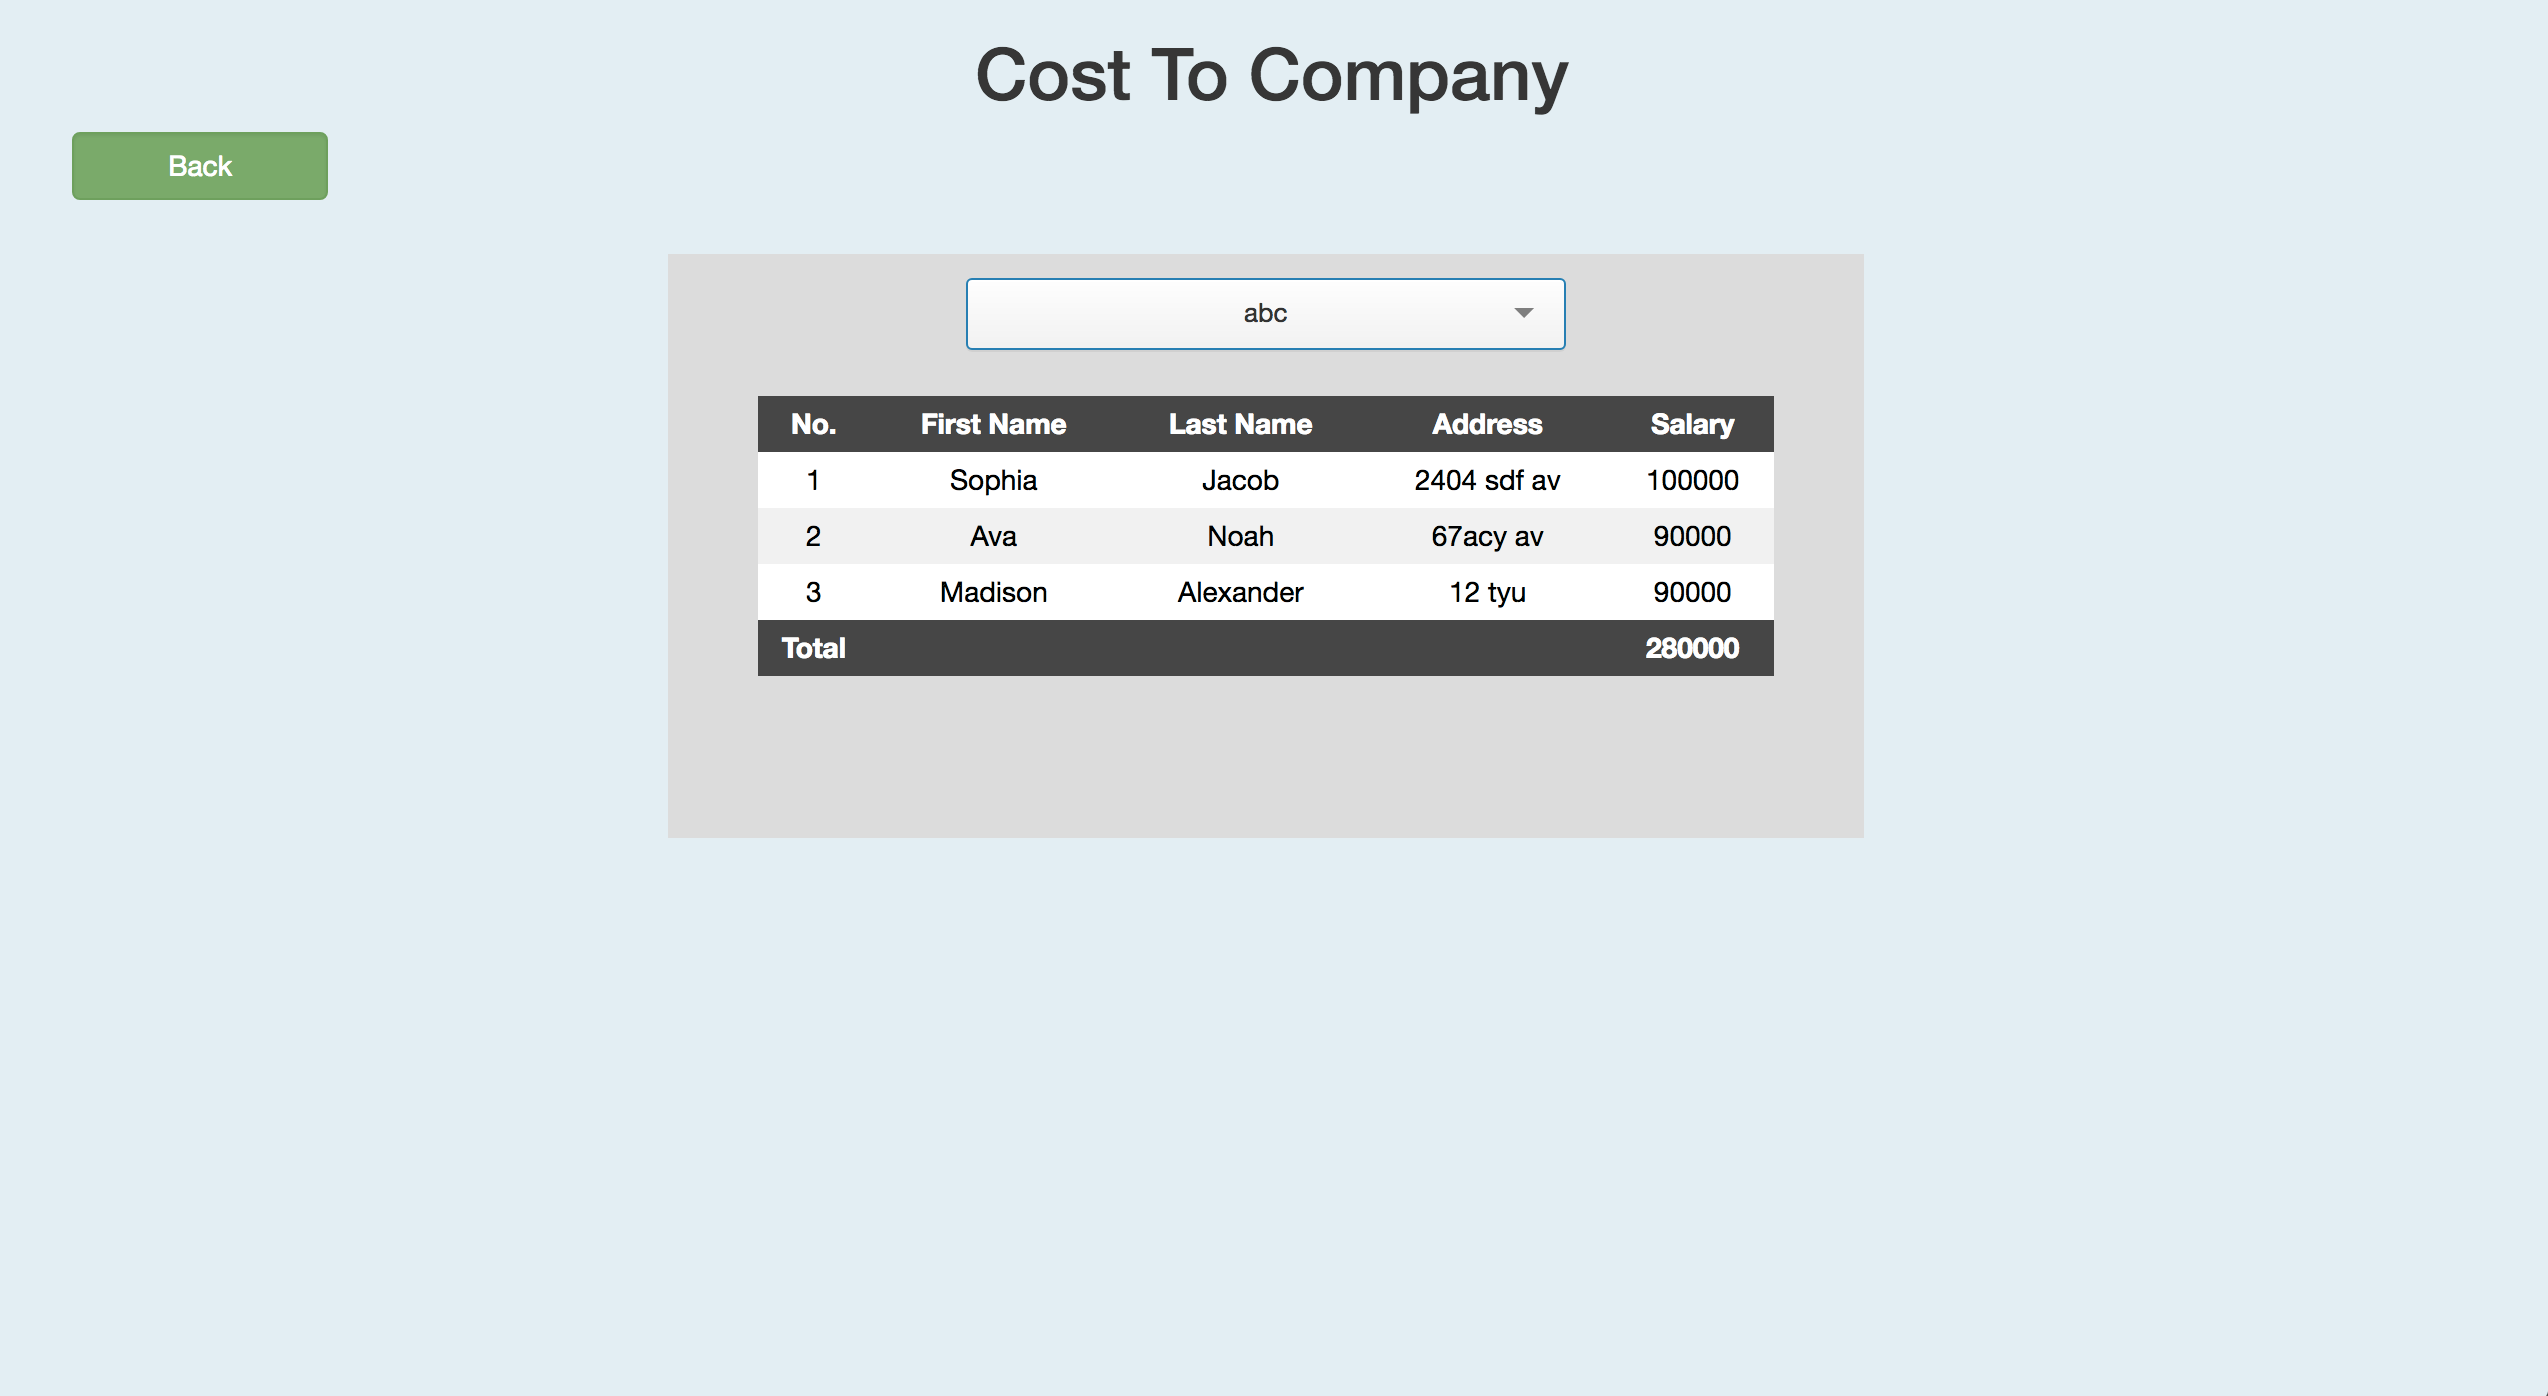
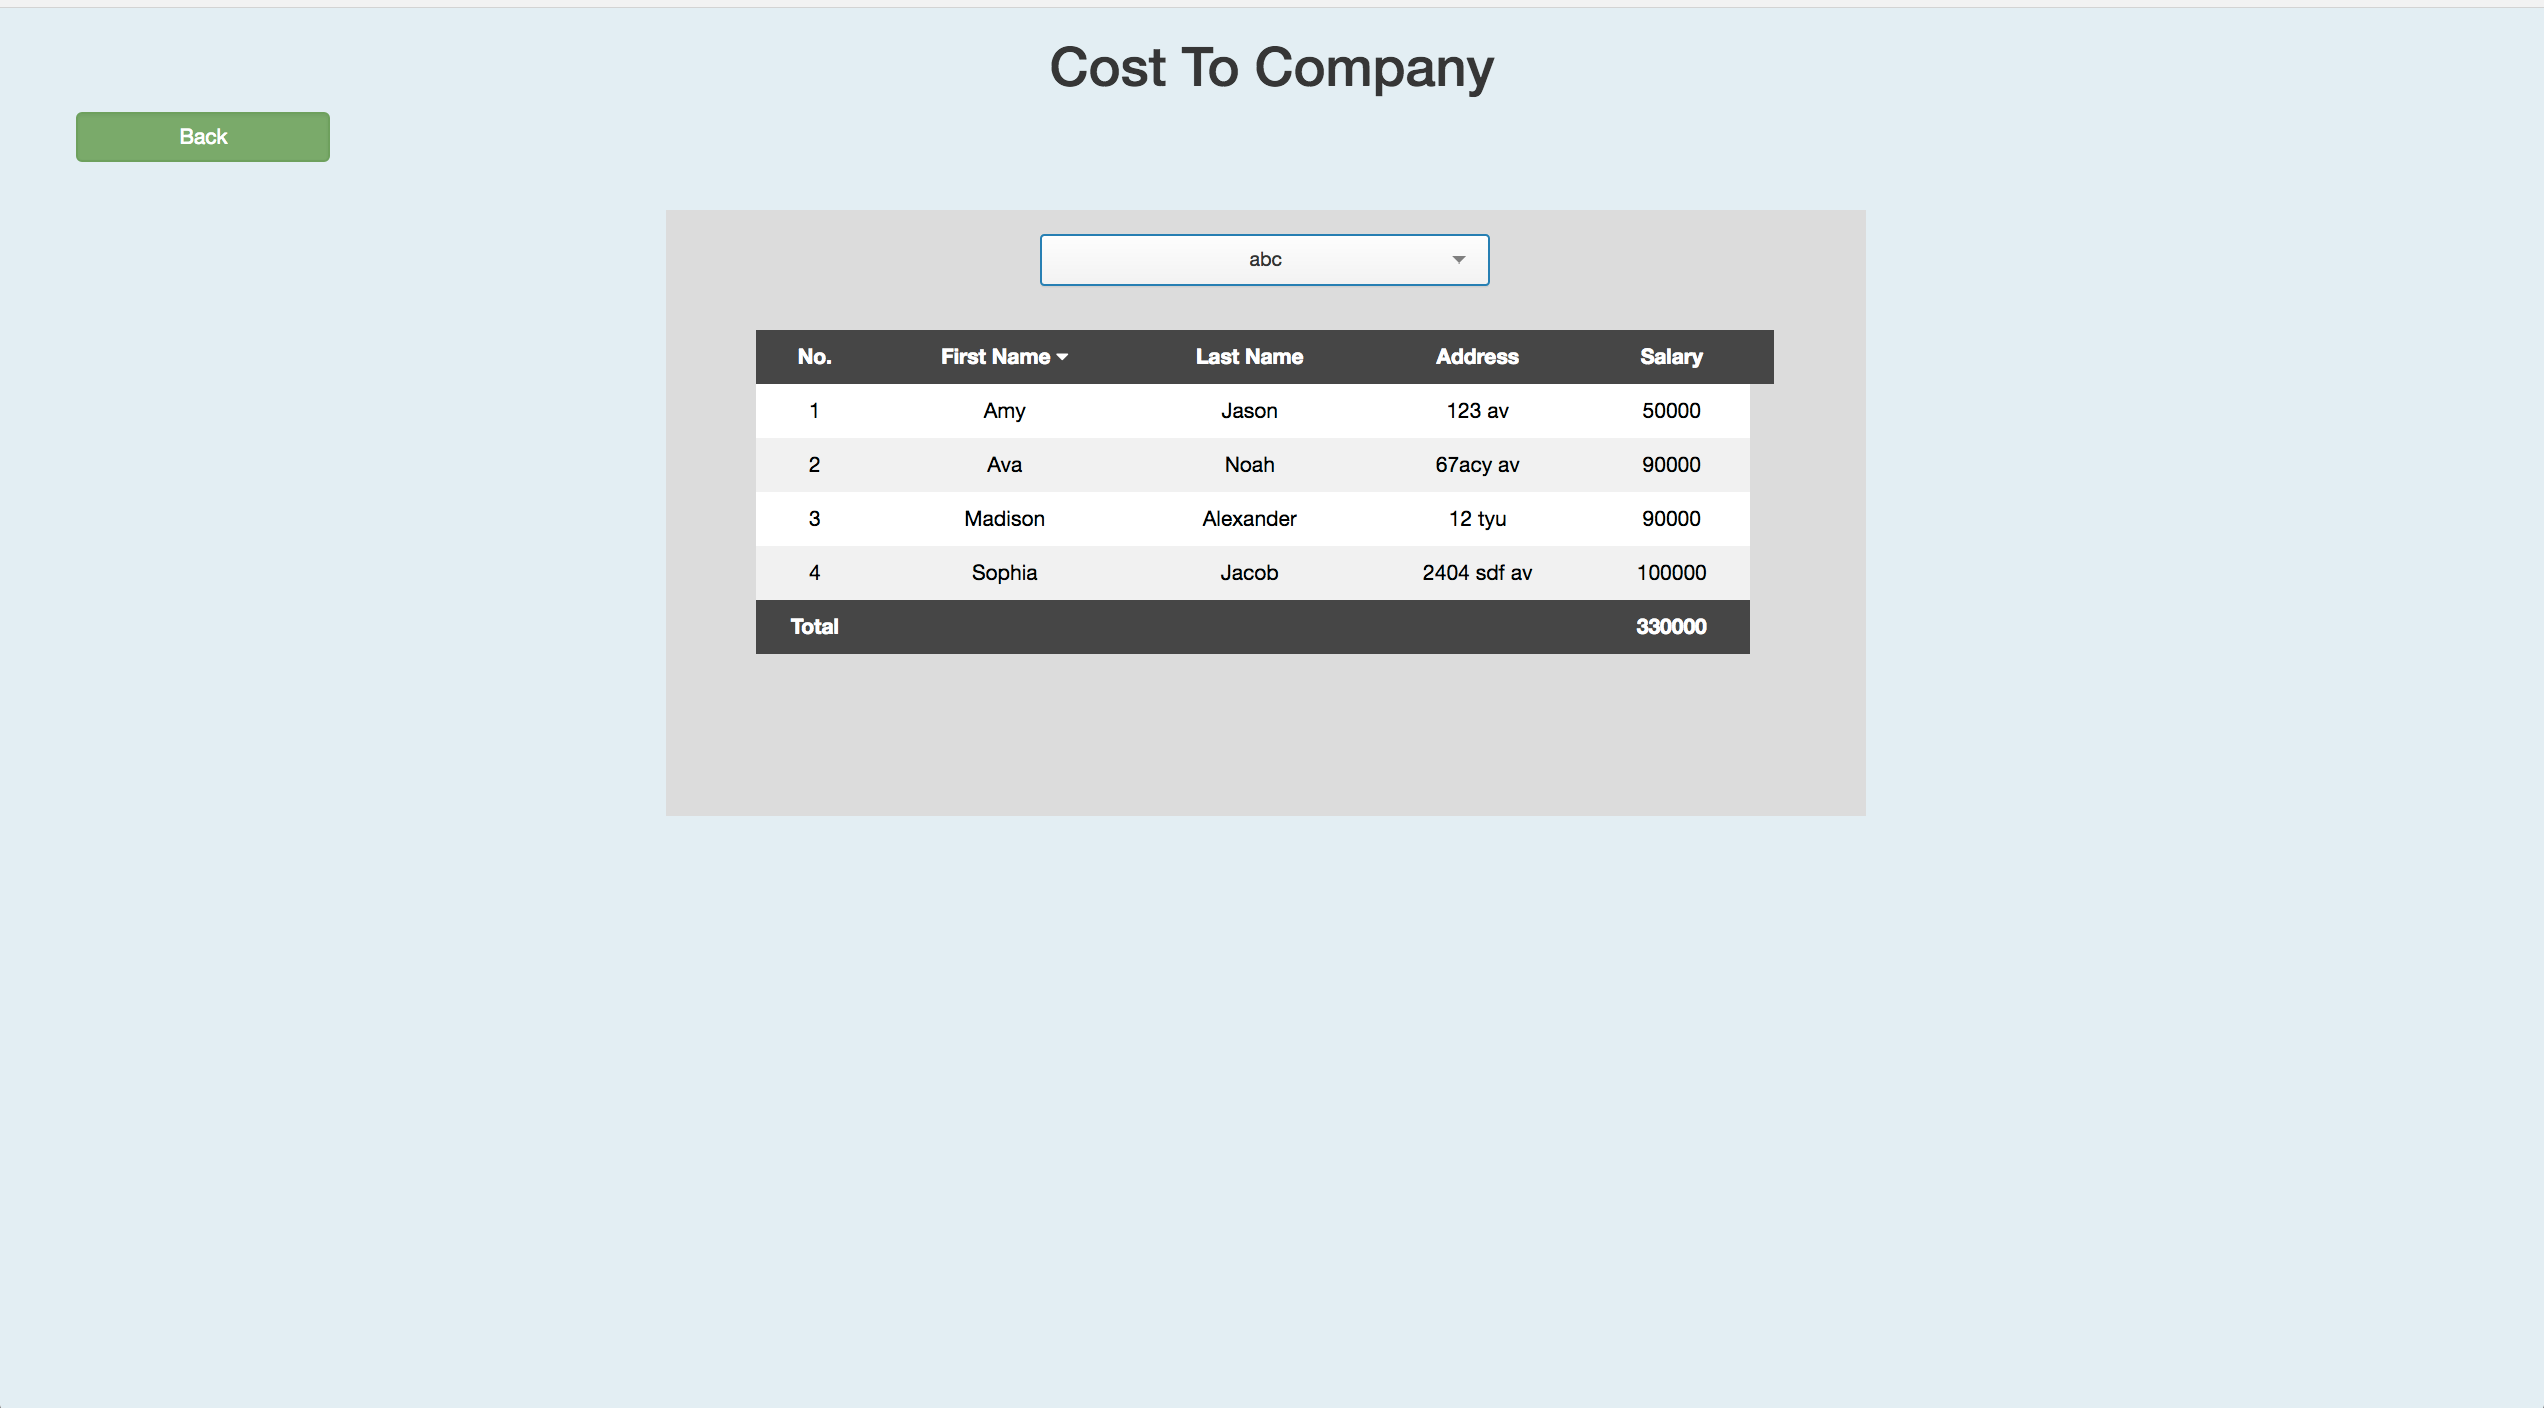
added support for sorting tables

Changed region(s): [[0.2795, 0.154, 0.7142, 0.4928], [0.3726, 0.0308, 0.6211, 0.0924], [0.0311, 0.0616, 0.1242, 0.154]]

diff --git a/main.html b/main.html
@@ -38,15 +38,50 @@
     	<div class="title-text"> <h1> Company Database </h1> </div>
 		<table style="width:85%; margin: 0 auto;">
 			<tr>
-				<th> No. </th>
-				<th> First Name </th>
-				<th> Last Name </th>
-				<th> Address </th>
-				<th> Company </th>
-				<th> Salary </th>
+				<th> 
+				    No.
+			       	    <span ng-show="sortType == 'id' && !sortReverse" class="fa fa-caret-down"></span>
+				    <span ng-show="sortType == 'id' && sortReverse" class="fa fa-caret-up"></span>
+				</th>
+				<th> 
+				    <a href ng-click="sortType = 'FirstName'; sortReverse = !sortReverse">
+				    First Name 
+			       	    <span ng-show="sortType == 'FirstName' && !sortReverse" class="fa fa-caret-down"></span>
+				    <span ng-show="sortType == 'FirstName' && sortReverse" class="fa fa-caret-up"></span>
+				    </a>
+				</th>
+				</a>
+				<th> 
+				    <a href ng-click="sortType = 'LastName'; sortReverse = !sortReverse">
+				    Last Name 
+				    <span ng-show="sortType == 'LastName' && !sortReverse" class="fa fa-caret-down"></span>
+				    <span ng-show="sortType == 'LastName' && sortReverse" class="fa fa-caret-up"></span>
+				    </a>
+				</th>
+				<th> 
+				    <a href ng-click="sortType = 'Address'; sortReverse = !sortReverse">
+				    Address 
+				    <span ng-show="sortType == 'Address' && !sortReverse" class="fa fa-caret-down"></span>
+				    <span ng-show="sortType == 'Address' && sortReverse" class="fa fa-caret-up"></span>
+				    </a>
+				</th>
+				<th> 
+				    <a href ng-click="sortType = 'Company'; sortReverse = !sortReverse">
+				    Company 
+				    <span ng-show="sortType == 'Company' && !sortReverse" class="fa fa-caret-down"></span>
+				    <span ng-show="sortType == 'Company' && sortReverse" class="fa fa-caret-up"></span>
+				    </a>
+				</th>
+				<th> 
+				    <a href ng-click="sortType = 'Salary'; sortReverse = !sortReverse">
+				    Salary 
+				    <span ng-show="sortType == 'Salary' && !sortReverse" class="fa fa-caret-down"></span>
+				    <span ng-show="sortType == 'Salary' && sortReverse" class="fa fa-caret-up"></span>
+				    </a>
+				</th>
 				<th>  </th>
 			</tr>
-  			<tr ng-repeat="x in Person">
+  			<tr ng-repeat="x in Person | orderBy:sortType:sortReverse">
     			<td>{{ $index+1 }}</td>
     			<td>{{ x.FirstName }}</td>
     			<td>{{ x.LastName }}</td>

diff --git a/detail.html b/detail.html
@@ -18,13 +18,36 @@
 		<table style="width:85%; margin: 3% auto;" ng-show="c.selected">
 			<tr>
 				<th> No. </th>
-				<th> First Name </th>
-				<th> Last Name </th>
-				<th> Address </th>
-				<th> Salary </th>
+				<th> 
+				    <a href ng-click="sortType = 'FirstName'; sortReverse = !sortReverse">
+				    First Name
+				    <span ng-show="sortType == 'FirstName' && !sortReverse" class="fa fa-caret-down"></span>
+				    <span ng-show="sortType == 'FirstName' && sortReverse" class="fa fa-caret-up"></span>
+				    </a>
+				</th>
+				<th> 
+				    <a href ng-click="sortType = 'LastName'; sortReverse = !sortReverse">
+				    Last Name
+				    <span ng-show="sortType == 'LastName' && !sortReverse" class="fa fa-caret-down"></span>
+				    <span ng-show="sortType == 'LastName' && sortReverse" class="fa fa-caret-up"></span>
+				    </a>
+				</th>
+				<th> 
+				    <a href ng-click="sortType = 'Address'; sortReverse = !sortReverse">
+				    Address
+				    <span ng-show="sortType == 'Address' && !sortReverse" class="fa fa-caret-down"></span>
+				    <span ng-show="sortType == 'Address' && sortReverse" class="fa fa-caret-up"></span>
+				    </a>
+				</th>
+				<th> 
+				    <a href ng-click="sortType = 'Salary'; sortReverse = !sortReverse">
+				    Salary
+				    <span ng-show="sortType == 'Salary' && !sortReverse" class="fa fa-caret-down"></span>
+				    <span ng-show="sortType == 'Salary' && sortReverse" class="fa fa-caret-up"></span>
+				    </a>
 				<th>  </th>
 			</tr>
-  			<tr ng-repeat="x in Person | filter:{Company:c.selected['Company']}:true">
+  			<tr ng-repeat="x in Person | orderBy:sortType:sortReverse | filter:{Company:c.selected['Company']}:true">
     			<td>{{ $index+1 }}</td>
     			<td>{{ x.FirstName }}</td>
     			<td>{{ x.LastName }}</td>

diff --git a/index.html b/index.html
@@ -6,7 +6,6 @@
         <!--[if lt IE 9]>
             <script src="https://cdnjs.cloudflare.com/ajax/libs/html5shiv/3.7.3/html5shiv.js"></script>
         <![endif]-->
-        <link rel="stylesheet" type="text/css" href="css/style.css" />
         <script src="//ajax.googleapis.com/ajax/libs/angularjs/1.5.1/angular.js"></script>
         <script src="//ajax.googleapis.com/ajax/libs/angularjs/1.5.1/angular-route.js"></script>
         <script src="js/select.js"></script>
@@ -20,6 +19,8 @@
         <script src="//angular-ui.github.io/bootstrap/ui-bootstrap-tpls-0.12.0.js"></script>
         <script src="js/main.js"></script>
         <link href="//netdna.bootstrapcdn.com/bootstrap/3.1.1/css/bootstrap.min.css" rel="stylesheet">
+	<link href="https://maxcdn.bootstrapcdn.com/font-awesome/4.7.0/css/font-awesome.min.css" rel="stylesheet">
+        <link rel="stylesheet" type="text/css" href="css/style.css" />
 
         <!-- theme  -->
         <link rel="stylesheet" href="https://cdnjs.cloudflare.com/ajax/libs/select2/3.4.5/select2.css">	

diff --git a/js/main.js b/js/main.js
@@ -48,6 +48,8 @@ var app = angular.module('ibm', ['ngSanitize', 'ui.bootstrap', 'ngRoute', 'ui.se
 })
 
 .controller('PersonCtrl', function($scope, $http){
+    $scope.sortType = 'FirstName';
+    $scope.sortReverse = false;
     $scope.loading = true;
     //submit user input data to server
     $scope.submitData = function(){
@@ -93,6 +95,8 @@ var app = angular.module('ibm', ['ngSanitize', 'ui.bootstrap', 'ngRoute', 'ui.se
 })
 
 .controller('DetailCtrl', function($scope, $http, $filter){
+    $scope.sortType = 'FirstName';
+    $scope.sortReverse = false;
     $scope.loading = true;
     //get all the employee data
 	$http.get("/a")

diff --git a/css/style.css b/css/style.css
@@ -99,3 +99,12 @@ input.ng-invalid.ng-touched.ng-valid-parse{
   margin:0 auto;
   text-align: center;
 }
+a {
+  color:white;
+}
+a:hover {
+  color:grey;
+}
+a:visited {
+  color:white;
+}
